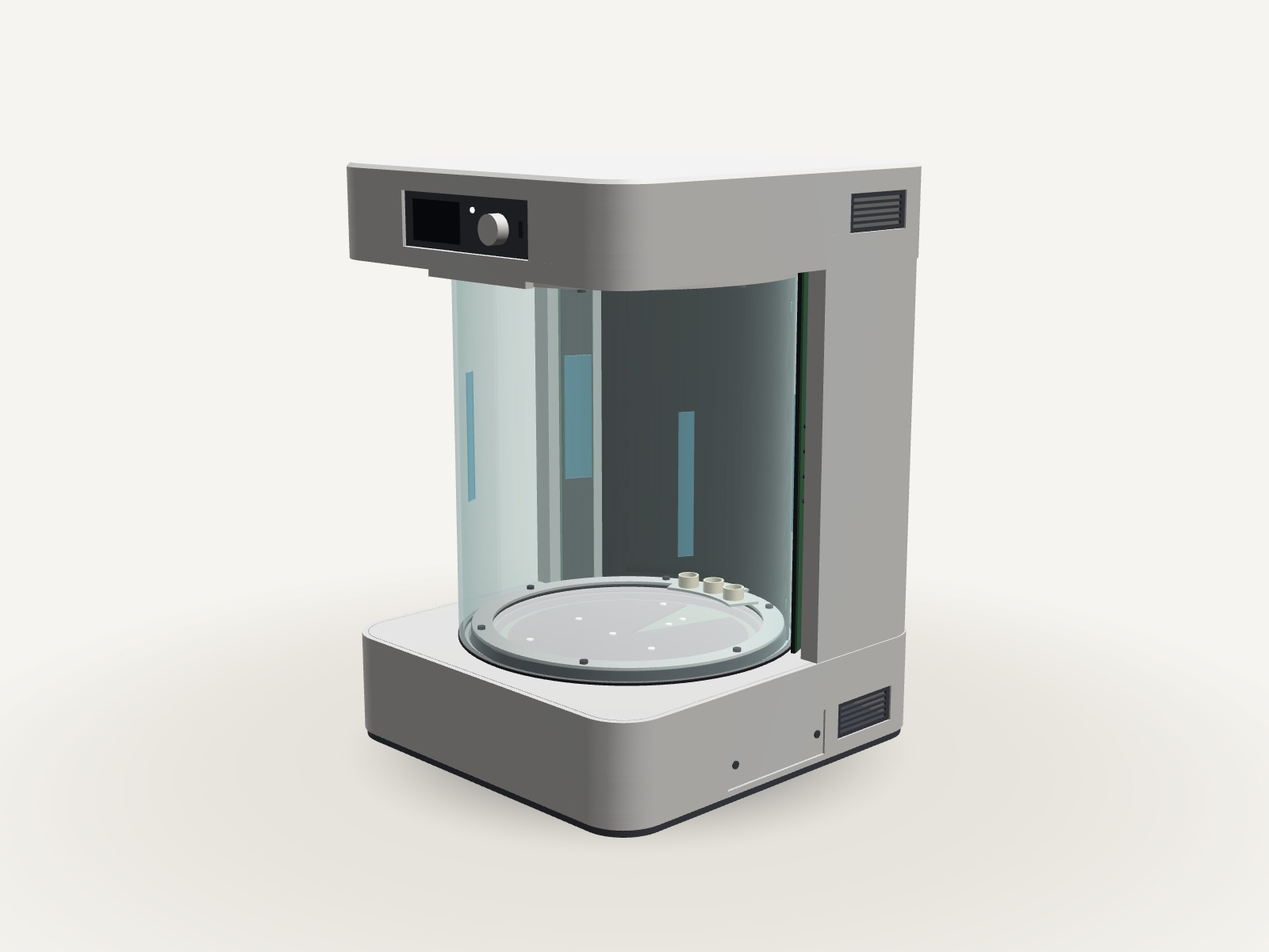
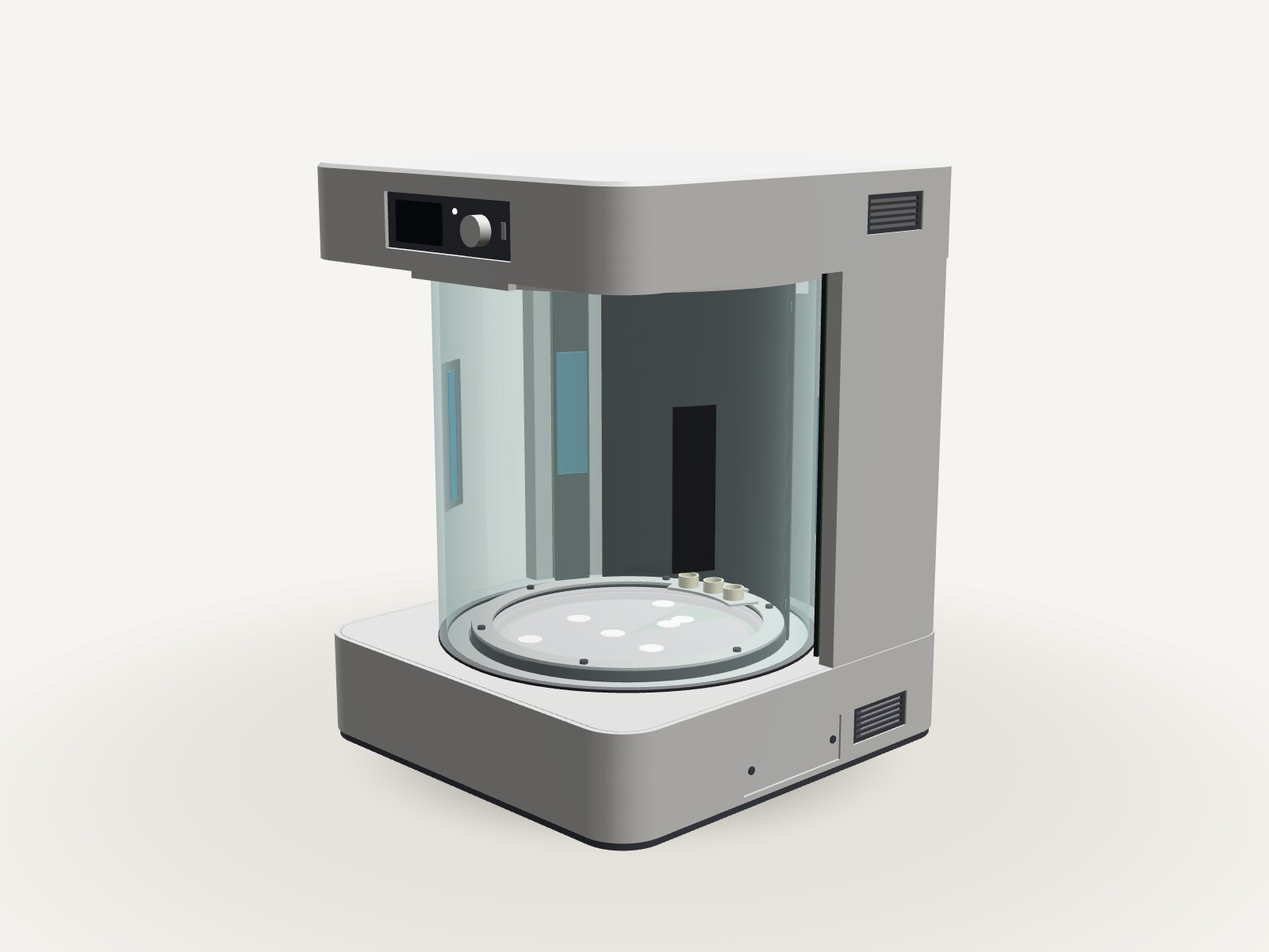
Sync handbook to Rev F2 and findings 31 to 36
- Canon snapshot resynced: stock Ø250 × 5 mm glass cylinder, new envelope
  and head mass, new drive part, static-charge constants, 36 findings.
- Desktop Replicator: stock cylinder, named drive part, static-charge
  limit with surface and humidity requirements; new CAD renders.
- Acoustics: closed-chamber gains as tokens; one tone lifts, several
  tones clean the field (INS-34).
- Compute and control: chamber-independent shape format (INS-32) and
  the still-air symmetry used in calibration (INS-35).
- Scan: sound alone cannot tell dense solids apart (INS-33), coupled
  scattering from touching beads (INS-35), neutral-grain transport (INS-31).
- Current state and insight page updated to match.
- Fix the range token filter to print lowest to highest, not first to last.

No hardware has been built, ordered or measured.

Changed region(s): [[0.25, 0.1542, 0.75, 0.8942], [0.5312, 0.4008, 0.5625, 0.6167], [0.4062, 0.6475, 0.4375, 0.6783]]

diff --git a/tools/canon.py b/tools/canon.py
@@ -61,7 +61,7 @@ def render(value, flt=None):
     if flt == 'and':
         return join_and(seq)
     if flt == 'range':
-        return f'{num(seq[0])} to {num(seq[-1])}'
+        return f'{num(min(seq))} to {num(max(seq))}'
     if flt == 'khz':
         return join_and([v / 1e3 for v in seq])
     if flt == 'mhz':

diff --git a/docs/content/status.md b/docs/content/status.md
@@ -8,10 +8,10 @@
 |---|---|---|---|
 | Machine design | Parametric CAD model, exact geometry export, drawings, parts list with candidate part numbers, power estimate | Derived | Simulation gates below; operator approval before anything is ordered |
 | Plate acoustics | A reduced plate model used for planning, and a three-dimensional solid finite-element model that contradicts it | Simulated | The two models disagree; a measured plate response is required; all results repeated at the new {{c:desktop_geometry.gap_mm}} mm plate spacing |
-| Drive and receive electronics | Circuit concept with a proposed front-end netlist. The 1-bit converter failed its test, so a conventional converter ({{c:haptic_pzt.adc_fallback_mpn}}) is fitted. No drive part is selected and there is no board layout | Simulated; Open | A drive part; a check that the larger piezo discs keep pattern control |
+| Drive and receive electronics | Circuit concept with a proposed front-end netlist. The 1-bit converter failed its test, so a conventional converter ({{c:haptic_pzt.adc_fallback_mpn}}) is fitted. A candidate drive part is named. There is no board layout | Simulated; Open | Datasheet values re-read; a check that the larger piezo discs keep pattern control |
 | Optical ring | Geometry in the CAD model and a signal model in simulation | Simulated | A check on data that the same model did not generate; confirmation of the laser class |
 | Pattern network (Cadence) | Trained in simulation at full size. A reduced form fits the controller's memory but, on the solid plate model, loses the accuracy needed | Simulated | A ruling: a smaller task, a larger memory budget, or the second compute card |
-| Firmware | Source for the drive, receive, laser, bus and pattern-network modules, tested on a workstation (59 checks). Never built for or run on a board | Simulated | A main program, a build, a drive part, and a board to run on |
+| Firmware | Source for the drive, receive, laser, bus and pattern-network modules, tested on a workstation (59 checks). Never built for or run on a board | Simulated | A main program, a build, and a board to run on |
 | Assembly and joining | A transport model in simulation, and a modelled joining step that heats the joint with a laser pulse. Placing one bead beside another is unsolved | Simulated; Open | Enough drive for transport; the beside-bead problem; any evidence for the heating step |
 | Removal and recovery | The correct physical sequence is implemented in simulation and conserves mass. On the solid plate model it delivers little energy to the part, so it is slow | Simulated | A measured scattering response; more energy on the part |
 | Scanning | Acoustic and optical scan models updated to the present geometry; their checks are reported passing | Simulated | Stored results of those checks; tests on independently generated data |
@@ -25,12 +25,13 @@ The detailed chapters are [Acoustic bodies](acoustics.html), [Compute, sensing a
 
 A review of the engineering record on 17 November 2026, and the simulations that followed it, found places where the design disagrees with itself or with its models. Each is registered and listed in the [insight register](insights.html). Several from the first review are now settled: the receive converter (a fallback part is fitted), the air temperature sensors (added) and the open chamber (closed with a glass cylinder). The ones that matter most now:
 
-1. **Drive strength.** Sound pressure from a glass plate is limited by bending stress in the glass, not by voltage. Holding solid polystyrene would stress the plates past the assumed safe limit with any piezo. A foam bead of 30 kg/m³ can be held, in simulation, with larger and thinner piezo discs on an 18 V supply, with a margin of 1.19. The design adopted both on 18 November 2026. The drive part previously listed has been removed as unsuitable and no replacement is chosen.
+1. **Drive strength.** Sound pressure from a glass plate is limited by bending stress in the glass, not by voltage. Holding solid polystyrene would stress the plates past the assumed safe limit with any piezo. A foam bead of 30 kg/m³ can be held, in simulation, with larger and thinner piezo discs on an 18 V supply. One tone at full voltage lifts about 1.2 times the bead's weight; five tones sharing the supply lift about 7 % of it. Lifting and field clean-up therefore have to alternate.
 2. **Plate response.** The solid model shows the plates ring, and the response shifts too much between nominally identical plates to be predicted. It has to be measured in the chamber for each plate, and again after every head lift and every few tenths of a kelvin of air temperature change.
 3. **Unwanted traps.** One tone from twelve sources leaves 10 to 17 % of the work volume above 70 % of the target amplitude, against a limit of 2 %. Filling several sites evenly also falls short.
 4. **Pattern network size.** The form of Cadence that fits in {{c:cadence_brain.cadence_sparse_max_kb}} kB keeps its speed but not its accuracy on the solid plate model. A second simulation, on a different task, reports the opposite. The two have not been reconciled.
 5. **Laser class.** The glass cylinder is clear, so it does not enclose the laser beams. An interlock switches the lasers off when the head is raised. The laser class has been assessed from memory of the standard and needs confirming.
-6. **Placing beads side by side.** A bead already in place disturbs the field that should hold its neighbour. This is unsolved.
+6. **Placing beads side by side.** A bead already in place disturbs the field that should hold its neighbour. This is unsolved. Two further limits are now known: touching beads scatter sound as a coupled group, which the simple model gets wrong above the lowest tone, and about 1 pC of static charge cancels the weak attraction between two beads.
+7. **Static charge.** A foam bead sticks to bare glass at about 5 pC. The glass needs a charge-bleeding surface and the air a controlled humidity. Neither is specified as a part.
 
 ## What must exist before hardware is ordered
 

diff --git a/docs/content/acoustics.md b/docs/content/acoustics.md
@@ -112,11 +112,13 @@ None of these limits is yet resolved for the Desktop Replicator.
 - **The response cannot be predicted in advance.** A change equivalent to 0.5 % in plate thickness drops the field correlation to 0.55. Each plate's response therefore has to be measured in the chamber after assembly. The soft rim seal behaves like a free edge; a rigid clamp would change the response completely.
 - **Control is not the limit.** All 60 independent drive settings (twelve sources at five tones) remain independent on this plate.
 
-**Drive strength is the limit, and the glass sets it (Simulated).** With all twelve sources phased onto one point, the Ø{{c:desktop_geometry.pzt_diameter_mm}} × {{c:desktop_geometry.pzt_thickness_mm}} mm discs give {{c:haptic_pzt.drive_authority_pa_per_volt|range}} Pa per volt across the tones. The Ø4.6 × 0.8 mm discs they replaced gave 0.21 to 0.97. Holding a solid polystyrene bead needs about 0.9 to 2.0 kPa. Larger discs lower the voltage needed but do not change the underlying limit: a bending wave stresses the glass by about 21 MPa for each metre per second of plate velocity, whatever the frequency or thickness (Derived). The pressure that holds solid polystyrene puts 15 to 21 MPa in the plates, above an assumed design limit of {{c:desktop_geometry.plate_bending_stress_limit_mpa}} MPa (the glass maker's characteristic strength is {{c:desktop_geometry.plate_characteristic_strength_mpa}} MPa), and dissipates 11 to 15 W in them. More sources, a stronger plate or lighter feedstock are the ways around it.
+**Drive strength is the limit, and the glass sets it (Simulated).** With all twelve sources phased onto one point, the Ø{{c:desktop_geometry.pzt_diameter_mm}} × {{c:desktop_geometry.pzt_thickness_mm}} mm discs give {{c:haptic_pzt.drive_authority_pa_per_volt|and}} Pa per volt at the five tones. The Ø4.6 × 0.8 mm discs they replaced gave 0.21 to 0.97. Holding a solid polystyrene bead needs about 0.9 to 2.0 kPa. Larger discs lower the voltage needed but do not change the underlying limit: a bending wave stresses the glass by about 21 MPa for each metre per second of plate velocity, whatever the frequency or thickness (Derived). The pressure that holds solid polystyrene puts 15 to 21 MPa in the plates, above an assumed design limit of {{c:desktop_geometry.plate_bending_stress_limit_mpa}} MPa (the glass maker's characteristic strength is {{c:desktop_geometry.plate_characteristic_strength_mpa}} MPa), and dissipates 11 to 15 W in them. More sources, a stronger plate or lighter feedstock are the ways around it.
 
-**A foam bead is the first test particle (Simulated).** A bead of 30 kg/m³ needs about one sixth of the pressure, which keeps glass stress at 2.5 to 4 MPa. The computed recipe is a Ø{{c:desktop_geometry.pzt_diameter_mm}} × {{c:desktop_geometry.pzt_thickness_mm}} mm piezo disc, a single tone at 128 or 160 kHz, and a {{c:haptic_pzt.bridge_rail_v}} V supply: that gives {{c:haptic_pzt.max_drive_v_peak_single_tone}} V against 19.3 V needed, a margin of 1.19. On the earlier 12 V supply it failed. The design constants adopted this recipe on 18 November 2026. It has not been checked for pattern control with the larger discs, which exceed the half-wavelength rule above.
+**A foam bead is the first test particle (Simulated).** A bead of 30 kg/m³ needs about one sixth of the pressure, which keeps glass stress at 2.5 to 4 MPa. The computed recipe is a Ø{{c:desktop_geometry.pzt_diameter_mm}} × {{c:desktop_geometry.pzt_thickness_mm}} mm piezo disc, a single tone at 128 or 160 kHz, and a {{c:haptic_pzt.bridge_rail_v}} V supply: that gives {{c:haptic_pzt.max_drive_v_peak_single_tone}} V at the disc. With the present glass cylinder the simulated lift at 160 kHz is about 1.2 times the bead's weight in the median position. On the earlier 12 V supply it failed. The design constants adopted this recipe on 18 November 2026. It has not been checked for pattern control with the larger discs, which exceed the half-wavelength rule above.
 
-**The glass cylinder helps modestly (Simulated).** Closing the chamber with the glass cylinder raises the pressure by 3.8, 1.7, 2.2, 1.7 and 1.6 times at the five tones for the nominal spacing, and by 1.2 to 2.8 times as the median over a ±20 % range of spacing. An open chamber gives 1.01 to 1.08. A simple mirror estimate had suggested a factor of eight; the plate radiates 16° to 38° off its normal and the beam walks off the opposite plate.
+**The glass cylinder helps modestly (Simulated).** Closing the chamber with the glass cylinder raises the pressure by {{c:desktop_geometry.chamber_gain_closed_nominal|and}} times at the five tones for the nominal spacing, and by {{c:desktop_geometry.chamber_gain_closed_gap_median|range}} times as the median over a ±20 % range of spacing. These figures are for the present cylinder, {{c:desktop_geometry.glass_cylinder_id_od_mm|x}} mm inside and outside diameter. An open chamber gives 1.01 to 1.08. A simple mirror estimate had suggested a factor of eight; the plate radiates 16° to 38° off its normal and the beam walks off the opposite plate.
+
+**One tone lifts; several tones clean (Simulated).** The five tones share one supply. Driven together, each gets a fifth of the voltage and a twenty-fifth of the power, and the twelve sources then lift only about 7 % of a foam bead's weight. One tone at full voltage lifts 10 to 20 times more. The five-tone drive is still needed, at lower level, to remove unwanted traps and to listen. A build therefore alternates between the two. Raising the count to 18 sources per plate would lift about 11 times the bead's weight in the same model; that is a possible upgrade, not the present design.
 
 **Calibration goes stale quickly (Simulated).** In the closed chamber the measured response stays valid (correlation 0.97) after a 0.1 K change in air temperature or a 50 µm change in spacing. After 0.5 K it falls to 0.63, and after 200 µm to 0.65. The response therefore has to be re-measured or tracked after every head lift and every few tenths of a kelvin.
 

diff --git a/docs/content/desktop-replicator.md b/docs/content/desktop-replicator.md
@@ -53,7 +53,8 @@ A smaller configuration, called `boro12`, fits Ø{{c:desktop_geometry.boro12_red
 
 The body is a rounded-square base and head joined by a hollow rear tower. The tower is one structural part that carries the head, covers the laser strips and acts as a duct.
 
-- **Glass cylinder.** A plain glass cylinder ({{c:desktop_geometry.glass_cylinder_id_od_mm|x}} mm inside and outside diameter) hangs from the head and closes the chamber on all sides. It shields levitated material from room draughts and, in simulation, raises the sound pressure by 1.2 to 2.8 times over an open chamber.
+- **Glass cylinder.** A stock borosilicate glass cylinder ({{c:desktop_geometry.glass_cylinder_id_od_mm|x}} mm inside and outside diameter) hangs from the head and closes the chamber on all sides. A catalogue size was chosen over a custom tube. It shields levitated material from room draughts and, in simulation, raises the sound pressure by {{c:desktop_geometry.chamber_gain_closed_gap_median|range}} times over an open chamber.
+- **Static charge.** A foam bead that rubs against glass picks up charge. At about {{c:electrostatics_and_matter_loop.eps_r0p5mm_image_clamp_1g_pc}} pC a 1 mm bead sticks to the glass with a force equal to its weight. The plates and the cylinder therefore need a slightly conductive, grounded surface, and the chamber air a relative humidity of {{c:electrostatics_and_matter_loop.chamber_ambient_rh_pct_range|range}} %, to keep the charge under {{c:electrostatics_and_matter_loop.max_bead_charge_pc}} pC (Derived). No such surface treatment has been chosen.
 - **Lifting head.** To load the chamber, the head, the glass and two guide posts rise {{c:desktop_geometry.lift_stroke_mm}} mm on rails in the tower. The moving mass is {{c:desktop_geometry.lift_moving_mass_kg}} kg, partly balanced by springs, and the machine is {{c:desktop_geometry.envelope_open_height_mm}} mm tall when open. The upper plate moves with the head, so its return position becomes something calibration has to measure after every opening.
 - **Interlock.** A switch detects that the head is down. With the head up, the firmware refuses to drive above listening level and switches the lasers off. Clear glass keeps out draughts but does not block the laser light, so it is not an enclosure around the laser beams; the laser class of the assembled machine is still to be confirmed against the standard.
 - **Air sensors.** Two temperature sensors measure the chamber air, because calibration is sensitive to a few tenths of a kelvin.
@@ -69,7 +70,7 @@ There are three field circuit boards. Two are identical and sit directly behind 
 
 | Board | What is on it |
 |---|---|
-| Head board, two identical (Ø172 mm) | One RP2350B microcontroller, six drive stages (driver part open), receive protection (BAT54S), four {{c:haptic_pzt.adc_fallback_mpn}} converters, fast comparators (TLV3501) and one spare piezo disc that touches nothing |
+| Head board, two identical (Ø172 mm) | One RP2350B microcontroller, six drive stages ({{c:haptic_pzt.hbridge_driver_mpn}}), receive protection (BAT54S), four {{c:haptic_pzt.adc_fallback_mpn}} converters, fast comparators (TLV3501) and one spare piezo disc that touches nothing |
 | Backplane (Ø188 mm) | The 12 MHz clock and its distribution, power conversion from USB-C, rear connectors and the socket for the compute card |
 | Compute card (M.2 form factor) | Card 1: an RP2350B running Cadence. Card 2: an optional FPGA module. Card 3 is reserved for an optical core |
 
@@ -137,7 +138,7 @@ The microcontrollers, comparators and discrete lasers above are purchasable scaf
 | Does the receive path meet {{c:haptic_pzt.sfdr_gate_min_db}} dB with the fallback converter? | Electrical design and simulation |
 | What drive voltage, tones, source size and bead density reach a holding pressure on the Ø{{c:desktop_geometry.wafer_diameter_mm}} mm wafer? | Simulation, then design |
 | Does the head return to the same position after each lift, closely enough to keep a calibration? | CAD tolerance study, then the assembled machine |
-| Which drive part replaces the one that was removed, now that the supply is {{c:haptic_pzt.bridge_rail_v}} V? | Electrical design |
+| Which surface treatment bleeds static charge from the glass without disturbing the lasers or the sound? | Materials selection, then the assembled machine |
 | Does the larger piezo disc adopted for a first levitation keep pattern control? | Simulation |
 | How large is the buoyant air motion for a given floor-to-ceiling temperature difference? | Simulation |
 | Does the laser amplifier pass the highest drive tone? A single stage with a gain of 200 would roll off at about 100 kHz | Circuit design |

diff --git a/docs/content/compute-control.md b/docs/content/compute-control.md
@@ -105,6 +105,10 @@ listen(gates, steps)   -> records the port response to a low-level probe
 
 The body-response file (`body-response/0.1`) holds one machine's transfer from drive voltage to plate motion at each tone. Planning code states the field it wants, and the compiler maps that through the file for the machine in front of it. The current presets are `desktop-200mm` and the small `boro12`.
 
+**Shapes stored independently of the chamber (Simulated).** A drive pattern saved as raw signals belongs to one chamber. In simulation it stops working when the plate is slightly different, when the cylinder changes size or when sources are added. A second format, `holo-eq/0.2`, therefore stores the goal itself together with a compact description of how the object scatters sound, in terms that do not depend on the chamber. Each machine compiles that through its own calibration. In simulation the result matches a direct solve within 1 % on chambers with 12 and with 36 sources, where matching the raw field loses 50 to 1,000 times the lift. A follow-on version, `holo-eq/0.3-mm`, splits each stored response into a material part and a shape part, which makes the file several hundred times smaller. The controller can take a new goal as a short stream of corrections, about 1.5 kB for a small job, without extra memory. Raw per-chamber patterns remain as a cache.
+
+**Calibration uses a symmetry of still air (Derived).** In still air the response from source A to source B equals the response from B to A. Calibration can therefore measure 78 pairs of the twelve sources where it would otherwise measure 144, and it recovers each channel's send and receive gains as a by-product. Any departure from the symmetry during a build is a sign that the air is moving or the machine has drifted, and serves as an alarm.
+
 **Firmware.** The firmware target is `twin/Firmware/desktop/`. It holds source for the drive and receive programs, the laser-strip readout, the bus, lock-in detection, the frame scheduler and the sparse pattern network. Its 59 tests pass on a workstation and its constants match the shared file. There is no main program or build, and nothing has run on a board (Simulated). Firmware for the retired P0 array is kept as a regression case. The intent is bare-metal code with no operating system, under about ten thousand lines, that parses the same frames whether they come from a workstation over USB-C or from the compute card. Unplugging the workstation should leave the machine running.
 
 ## In the Desktop Replicator
@@ -133,7 +137,7 @@ How the multiplied clocks on different boards are brought into a known phase rel
 
 ### Drive stage
 
-Each piezo disc is driven by a pair of gate-driver outputs wired as a full bridge, with diodes ({{c:haptic_pzt.clamp_diode_mpn}}) protecting the receive path. The part first listed ({{c:haptic_pzt.hbridge_driver_mpn}}) has been removed from the parts list: it cannot switch its outputs off to let the disc listen, and it tops out at {{c:haptic_pzt.hbridge_driver_v_max}} V. The driver slot is Open. The electrical estimate assumes a {{c:haptic_pzt.bridge_rail_v}} V bridge rail. Two limits follow (Derived).
+Each piezo disc is driven by a pair of gate-driver outputs wired as a full bridge, with diodes ({{c:haptic_pzt.clamp_diode_mpn}}) protecting the receive path. The candidate driver is {{c:haptic_pzt.hbridge_driver_mpn}}, rated to {{c:haptic_pzt.hbridge_driver_v_max}} V, which can switch its outputs off so that the disc can listen. It replaces a part that could not do that. Its values have not been re-read from a current datasheet. The electrical estimate assumes a {{c:haptic_pzt.bridge_rail_v}} V bridge rail. Two limits follow (Derived).
 
 **Drive voltage is scarce.** A {{c:haptic_pzt.bridge_rail_v}} V bridge gives {{c:haptic_pzt.max_drive_vrms}} V rms at a single tone and {{c:haptic_pzt.max_drive_vrms_5tone_per_tone}} V rms per tone when five tones share the swing. Planning once assumed 40 V; the model now refuses any plan above what the rail delivers. The rail was raised from 12 V to an 18 V rail on 18 November 2026, together with larger piezo discs, because the solid finite-element model shows a first levitation needs both, one tone only, and a foam bead ([Acoustic bodies](acoustics.html#known-limits)). Force scales with voltage squared, so the earlier 40 V assumption overstated force many times over. A proposed front-end circuit adds a further cost: its sensing node is referenced to ground, which needs single-ended drive and halves the available voltage. Drive strength, not the number of controls, is the limiting factor.
 

diff --git a/docs/content/matter-loop.md b/docs/content/matter-loop.md
@@ -36,6 +36,12 @@ The relation has a hard limit in air. A solid has an acoustic impedance of 10 to
 
 **Glass wall.** The chamber is closed by a glass cylinder. The lasers look through it and their reflector film is on its outer face, so every beam crosses the curved glass twice each way. The cylinder shields the scan from draughts. It lifts with the head for loading, and the scan must be recalibrated after each lift.
 
+**Sound alone cannot tell dense solids apart (Simulated).** Almost all the sound in air reflects from any dense solid, whatever it is made of, so echoes carry little about the material. In simulation, classifying solids from echoes at a realistic noise level is right 9 % of the time, which is near chance. Identifying a material needs the other channels as well: its response to a pulsed electromagnetic field, its optical reflectance in two bands, and its density from how it moves in the sound field. Combined, these separate eleven test materials completely in the model. The electromagnetic part of this is a long-term capability; the Desktop Replicator has no such coil.
+
+**Touching beads scatter together (Derived).** Two to four beads in contact do not scatter sound as the sum of separate beads. The difference is 2 to 6 % at 32 kHz, 11 to 51 % at 64 kHz and complete at 96 kHz and above. A scan of an assembled cluster has to use a model in which each bead re-scatters the sound from its neighbours. The simple sum is acceptable only at the lowest tone.
+
+**Material moves as neutral grains (Design decision).** Feedstock is carried as electrically neutral grains or droplets. A stream of charged particles would repel itself and screen the fields that are meant to steer it. Stray static charge on a bead is a separate problem, limited to {{c:electrostatics_and_matter_loop.max_bead_charge_pc}} pC by grounded, slightly conductive glass and controlled humidity, as described in [Desktop Replicator](desktop-replicator.html#the-enclosure).
+
 <a id="reconstruction-honesty-and-static-validation-g17-g18-g19"></a>
 
 ### What a scan is allowed to claim

diff --git a/docs/content/insights.md b/docs/content/insights.md
@@ -33,6 +33,8 @@ Findings 16 to 27 come from a review of the whole engineering record on 17 Novem
 
 Findings 28 to 30 are simulation results that followed on 18 November 2026 and settle several of the above: the simple one-bit receive converter fails its test (28), and a solid model of the plates shows that the shipped plate-response file is wrong and that drive strength, not pattern control, limits levitation (29). Finding 30 gives the reason, bending stress in the glass, and the way forward: a foam bead as the first test particle.
 
+Findings 31 to 36 were added on 22 November 2026. They cover static charge on beads (31), a chamber-independent file format for shapes (32), the limits of sound for telling materials apart (33), lifting with one tone and cleaning the field with several (34), and how touching beads scatter sound together (35). Finding 36 sets bounds for the long-term machine and does not change the Desktop Replicator.
+
 Each has an owner and a task. [Current state](status.html#known-inconsistencies-in-the-design) summarises them.
 
 ## Adding a finding

diff --git a/docs/content/cadence-memory.md b/docs/content/cadence-memory.md
@@ -84,7 +84,7 @@ The table uses an 18.5 L volume. That figure belongs to an earlier, larger chamb
 | Microwave, 10 GHz | 30 mm | 5.7 × 10³ | Heating and positioning aid; valued for speed, not mode count |
 | Light, 500 nm | 0.5 µm | 1.2 × 10¹⁸ | Computing and storage |
 
-For the Desktop Replicator, the space inside the glass cylinder is about 9 L, and the formula gives about 8 × 10⁶ at its top tone of 160 kHz (Derived). This counts resolvable field patterns, not sharp resonances.
+For the Desktop Replicator, the space inside the glass cylinder is about 11 L, and the formula gives about 9 × 10⁶ at its top tone of 160 kHz (Derived). This counts resolvable field patterns, not sharp resonances.
 
 Light offers twelve orders of magnitude more states than sound in the same volume. The architecture therefore uses sound for force and light for computing and memory.
 
